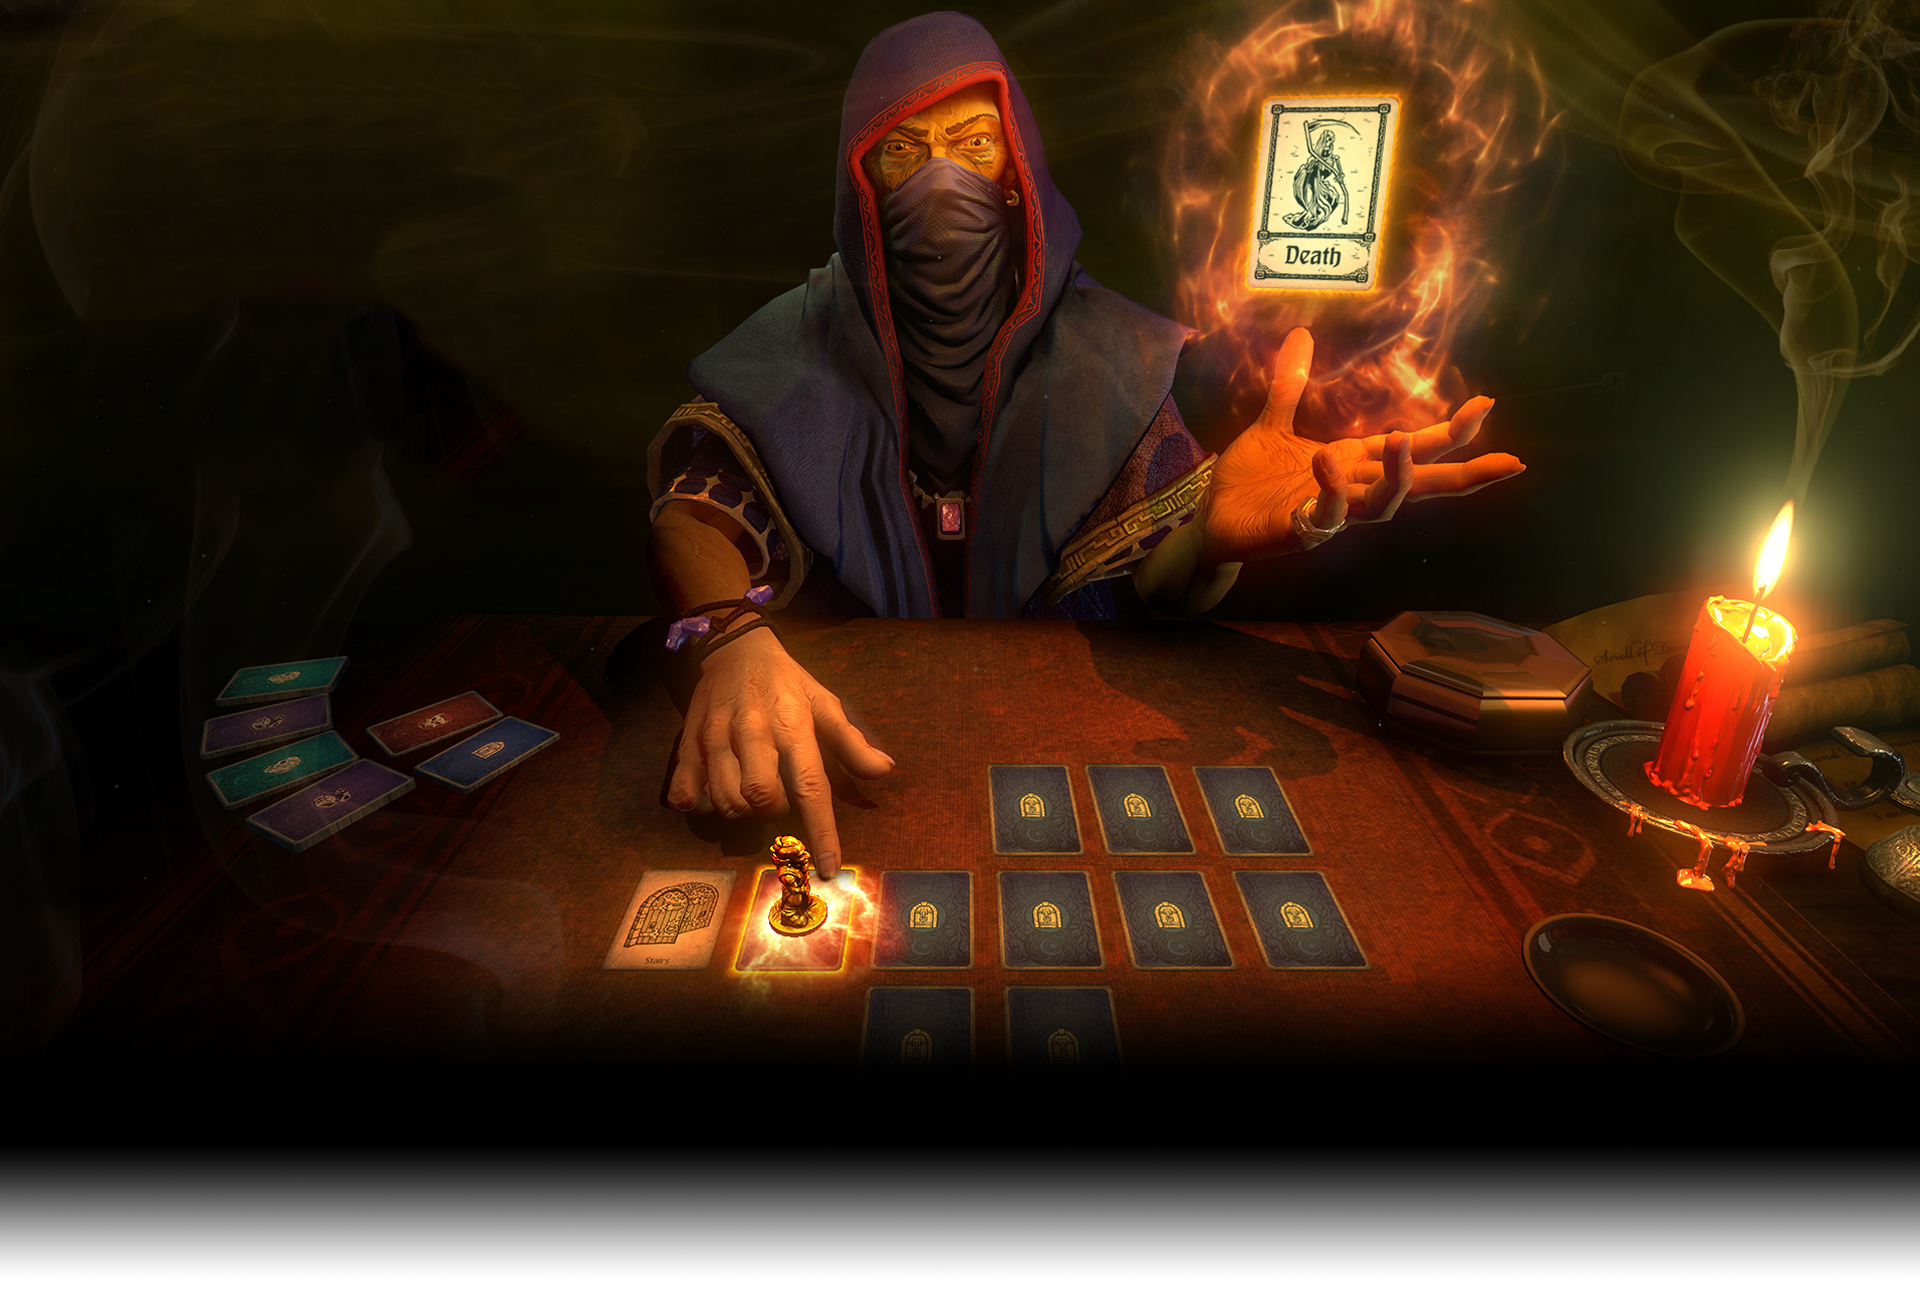
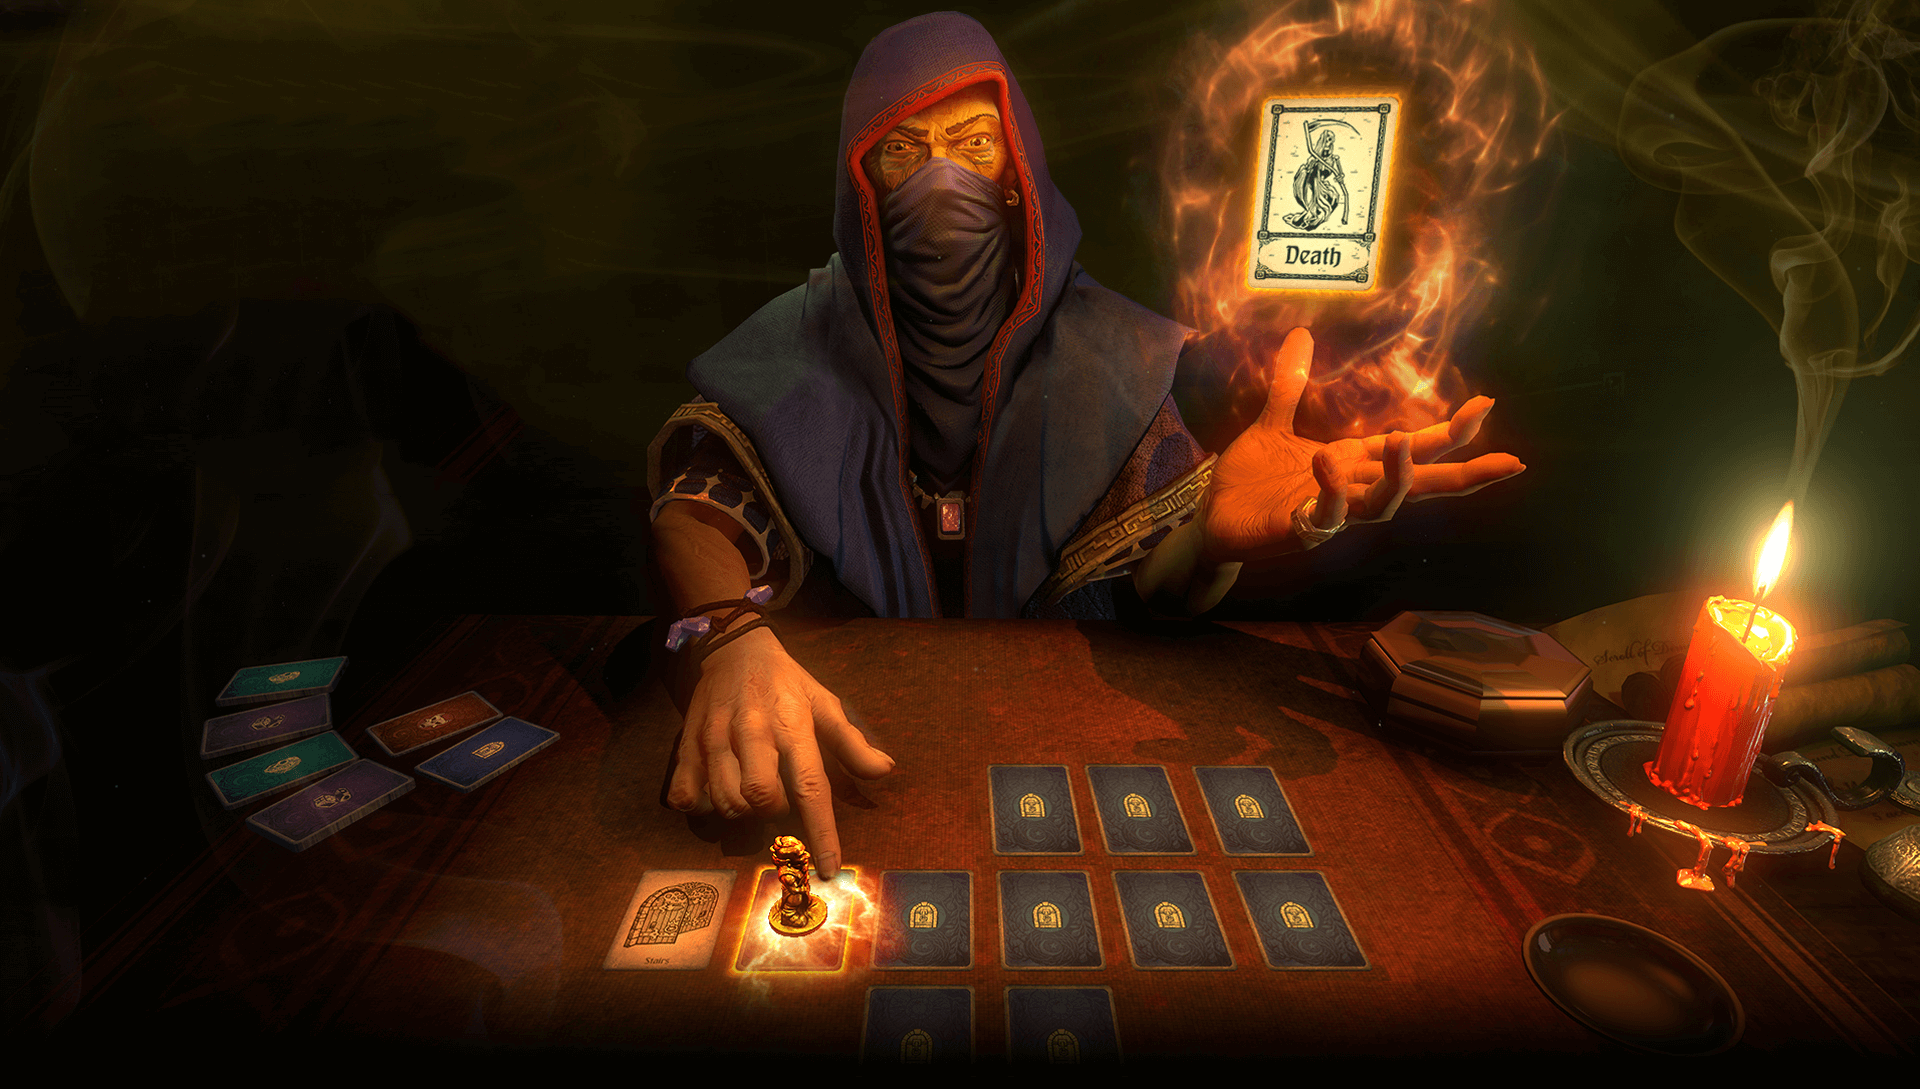
image adjustments
hof2.html is the hand of fate 2 page.

diff --git a/hof2.html b/hof2.html
@@ -1,0 +1,94 @@
+<!DOCTYPE html>
+<html lang="en">
+<head>
+  <!-- Meta Data -->
+  <meta charset="utf-8">
+  <title>Defiant Development</title>
+  <meta name="viewport" content="width=device-width, initial-scale=1">
+  <meta property="og:title" content="Defiant Development" />
+  <meta property="og:description" content="Defiant is composed of a veteran team of game developers doing what we do best: creating engaging, innovative, and enjoyable experiences." />
+  <meta property="og:image" content="img/ogimage.jpg" />
+  <meta name="keywords" content="Defiant,Dev,indie,games,game,steam,xbox,ps4">
+  <meta name="author" content="Matthew Neal, Tatiana Roga, Alex Murphy, Fae Daunt">
+  <link rel="shortcut icon" href="img/favicon.png" type="image/x-icon">
+  <link rel="icon" href="img/favicon.png" type="image/x-icon">
+  <link rel="stylesheet" href="css/reset.css">
+  <link rel="stylesheet" href="css/normalize.css">
+
+  <link rel="stylesheet" href="css/styles.css">  
+  <script src="https://ajax.googleapis.com/ajax/libs/jquery/2.2.4/jquery.min.js"></script>
+ <link href="https://fonts.googleapis.com/css?family=Oswald:400,700|Oxygen:400,700" rel="stylesheet">
+</head>
+
+<body>
+
+<div class="landing-hof-2">
+    <div class="navigation">
+      <nav>
+      <img class="mobile-logo" src="img/logo.png">
+        <ul class="nav-flex">
+          <li><a href="http://www.defiantdev.com/"><img class="nav-logo" src="img/logo.png"></a></li>
+          <li ><a class="nav-button-small" href="">NEWS</a></li>
+          <li ><a class="nav-button-small" href="">HAND OF FATE 1</a></li>
+          <li ><a class="nav-button-small" href="">HAND OF FATE 2</a></li>
+          <li ><a class="nav-button-small" href="">ABOUT</a></li>
+        </ul>      <img class="hof-2-logo" src="img/hof2logo.png">
+      </nav>
+    </div>
+  </div>
+</div>
+<div class="full-width-gradient"></div>
+
+  <div class="youtube-trailer-box">
+    <iframe width="560" height="315" src="https://www.youtube.com/embed/5-WRqGTQBzk" frameborder="0" allowfullscreen></iframe>
+    <div class="trailer-text-area">
+    <h2>TRAILER</h2>
+    <p>The dealer has clawed his way back beyond the thirteen gates to seek his revenge!</p>
+    <p>The table has changed, yet the stakes remain the same: life or death!</p>
+    </div>
+  </div>
+
+  <div class="overview-container">
+    <div class="trailer-text-area">
+      <h2>TRAILER</h2>
+      <p>The dealer has clawed his way back beyond the thirteen gates to seek his revenge!</p>
+      <p>The table has changed, yet the stakes remain the same: life or death!</p>
+    </div>
+    <div class="girl">&nbsp;</div>
+  </div>
+
+  <div class="screenshots-section">
+    <div class="shaman">&nbsp;</div>
+    <div class="trailer-text-area">
+      <h2>SCREENSHOTS</h2>
+    </div>
+  </div>
+
+  <div class="key-features-container">
+    <div class="trailer-text-area">
+      <h1>KEY FEATURES</h1>
+      <p>The dealer has clawed his way back beyond the thirteen gates to seek his revenge!</p>
+      <p>The table has changed, yet the stakes remain the same: life or death!</p>
+    </div>
+  </div>
+
+    <div class="coming-soon-container">
+      <div class="coming-soon">COMING SOON</div>
+      <div class="platform-flex">
+        <img class="platform-item" src="img/ps4.png">
+        <img class="platform-item" src="img/steam.png">
+        <img class="platform-item" src="img/xbox.png">
+      </div>
+  </div>
+
+
+
+<footer>
+<div class="footer-container-hof2">
+  <img class="footer-logo" src="img/footerlogo.png">
+  <div class="footer-text">
+  Copyright 2016 Defiant Development
+  </div>
+</footer>
+</div>
+</body>

diff --git a/css/styles.css b/css/styles.css
@@ -1,6 +1,6 @@
 html {
 	background-color: #000000;
-	  background: url(../img/background.jpg) no-repeat center center fixed; 
+	 background: url(../img/hof2background.jpg) no-repeat center center fixed; 
   -webkit-background-size: cover;
   -moz-background-size: cover;
   -o-background-size: cover;
@@ -11,7 +11,6 @@ html {
 	max-width: 1200px;
 	width: 100%;
 	margin: 0 auto;
-	display: flex;
 }
 .page-content {
 	width: 100%;
@@ -58,6 +57,19 @@ html {
 	display:block;
 	position:relative;
 	padding-bottom:56.25%;
+}
+
+.landing-hof-2 {
+	background-image: url(../img/landinghof2.jpg);
+	background-size: cover;
+	background-repeat: no-repeat;
+	background-position:top;
+	width: 100%;
+	display:block;
+	position:relative;
+	padding-bottom:56.25%;
+	height:0px;
+	overflow:visible;
 }
 /*
 .container::before {
@@ -115,6 +127,13 @@ html {
 	box-sizing:border-box;
 	width:100%;
 	height:130px;
+}
+
+.footer-container-hof2 {
+	box-sizing:border-box;
+	width:100%;
+	height:130px;
+	background-color:black;
 }
 
 .footer-logo {
@@ -215,9 +234,108 @@ html {
     content: "";
     display: block;
     width: 100%;
-    position: absolute;
+    position: relative;
     padding-bottom:10%;
-    margin-top: -91px;
-    z-index:-1;
+    z-index:0;
+}
 
+.hof-2-logo {
+	width: 20%;
+	margin-left:5%;
+	margin-top:2%;
+}
+
+.youtube-trailer-box {
+	width: 100%;
+	box-sizing:border-box;
+	margin:0% 2% 2% 2%;
+	padding: 10px;
+	display:flex;
+	flex-wrap:wrap;
+	justify-content: center;
+}
+
+.trailer-text-area {
+	width: 40%;
+	color:white;
+	padding:10px;
+	margin:10px;
+	box-sizing:border-box;
+
+}
+
+.overview-container, .screenshots-section, .key-features-container {
+	width:100%;
+	position:relative;
+	overflow:visible;
+	box-sizing:border-box;
+	padding-top:10%;
+	padding-bottom:56.25%;
+	display:flex;
+	height:0px;
+	justify-content: center;
+	background-size: cover;
+	background-repeat: no-repeat;
+	background-position:top;
+}
+
+.overview-container {
+	background-image: url(../img/overviewbackground.png);
+}
+
+.key-features-container {
+	background-image: url(../img/keyfeatures.png);
+}
+
+.coming-soon-container {
+	background-color:black;
+	margin-top: -20%;
+	padding-top: 20%;
+	box-sizing:border-box;
+	z-index: -1;
+	width:100%;
+	padding-bottom:10%;
+}
+
+.girl {
+	background-image: url(../img/female.png);
+	background-size: cover;
+	background-repeat: no-repeat;
+	width:30%;
+	padding-bottom:45%;
+	content: "";
+}
+
+.shaman {
+	background-image: url(../img/shaman.png);
+	background-size: cover;
+	background-repeat: no-repeat;
+	width:55%;
+	padding-bottom:80%;
+	margin-top: -27%;
+	content: "";
+}
+
+.platform-flex {
+	display:flex;
+	justify-content: center;
+	flex-wrap: wrap;
+	width:100%;
+}
+
+.platform-item {
+	width:15%;
+	height:15%;
+}
+
+.coming-soon {
+	width:100%;
+	color:#f2f2f2;
+	font-size: 3em;
+	text-align: center;
+	margin:0 auto;
+	float:left;
+	display:block;
+	margin-bottom:40px;
+	font-weight: 700;
 }

diff --git a/css/reset.css b/css/reset.css
@@ -17,10 +17,7 @@
 /**
  *   Typographic reset
  */
-body {
-	/* Use a serif font for nice readability, but not Times */
-	font: 17px/26px Skolar, Tisa, "Chaparral Pro", Merriweather, Georgia, serif;
-}
+
 
 h1, h2, h3, h4, h5, #logo, #top, .slidey b, .slidey label, .counter, input, textarea, button, .pagination {
 	font-family: 'Oxygen', sans-serif;
